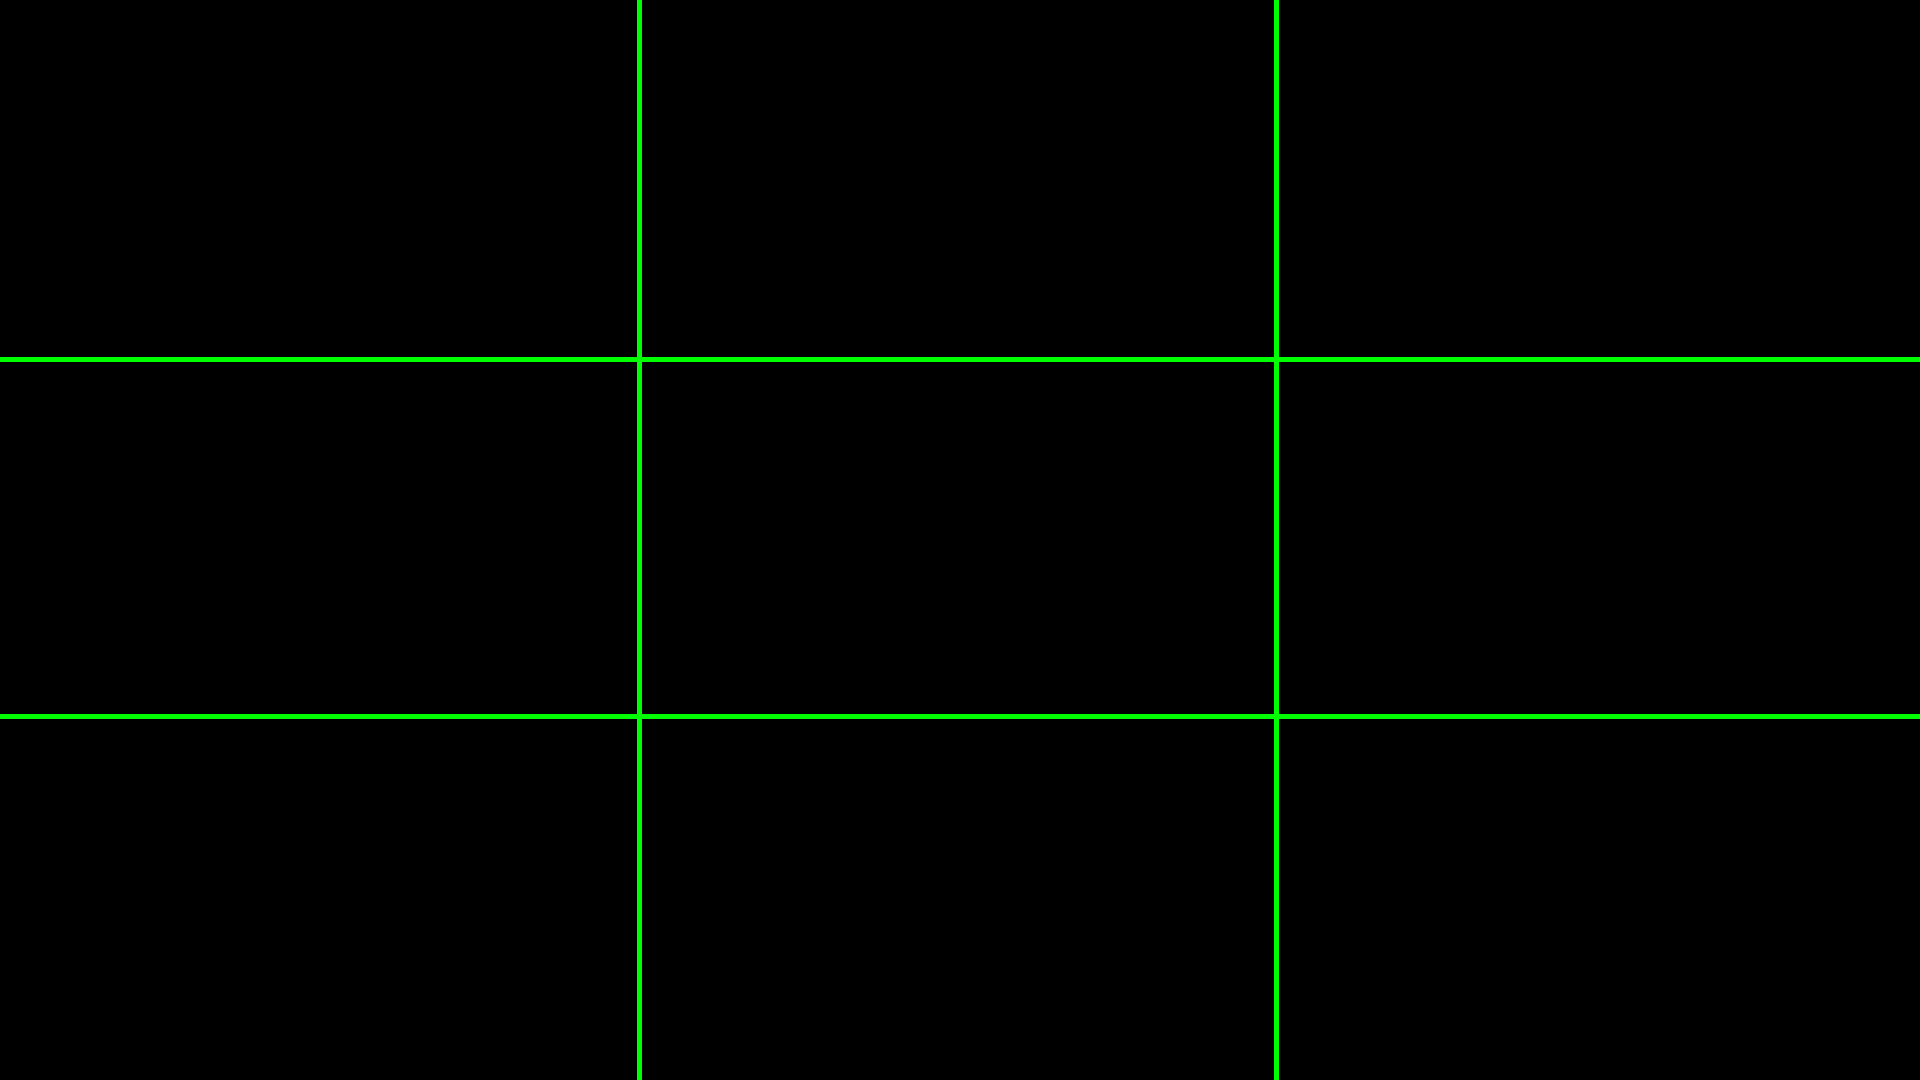
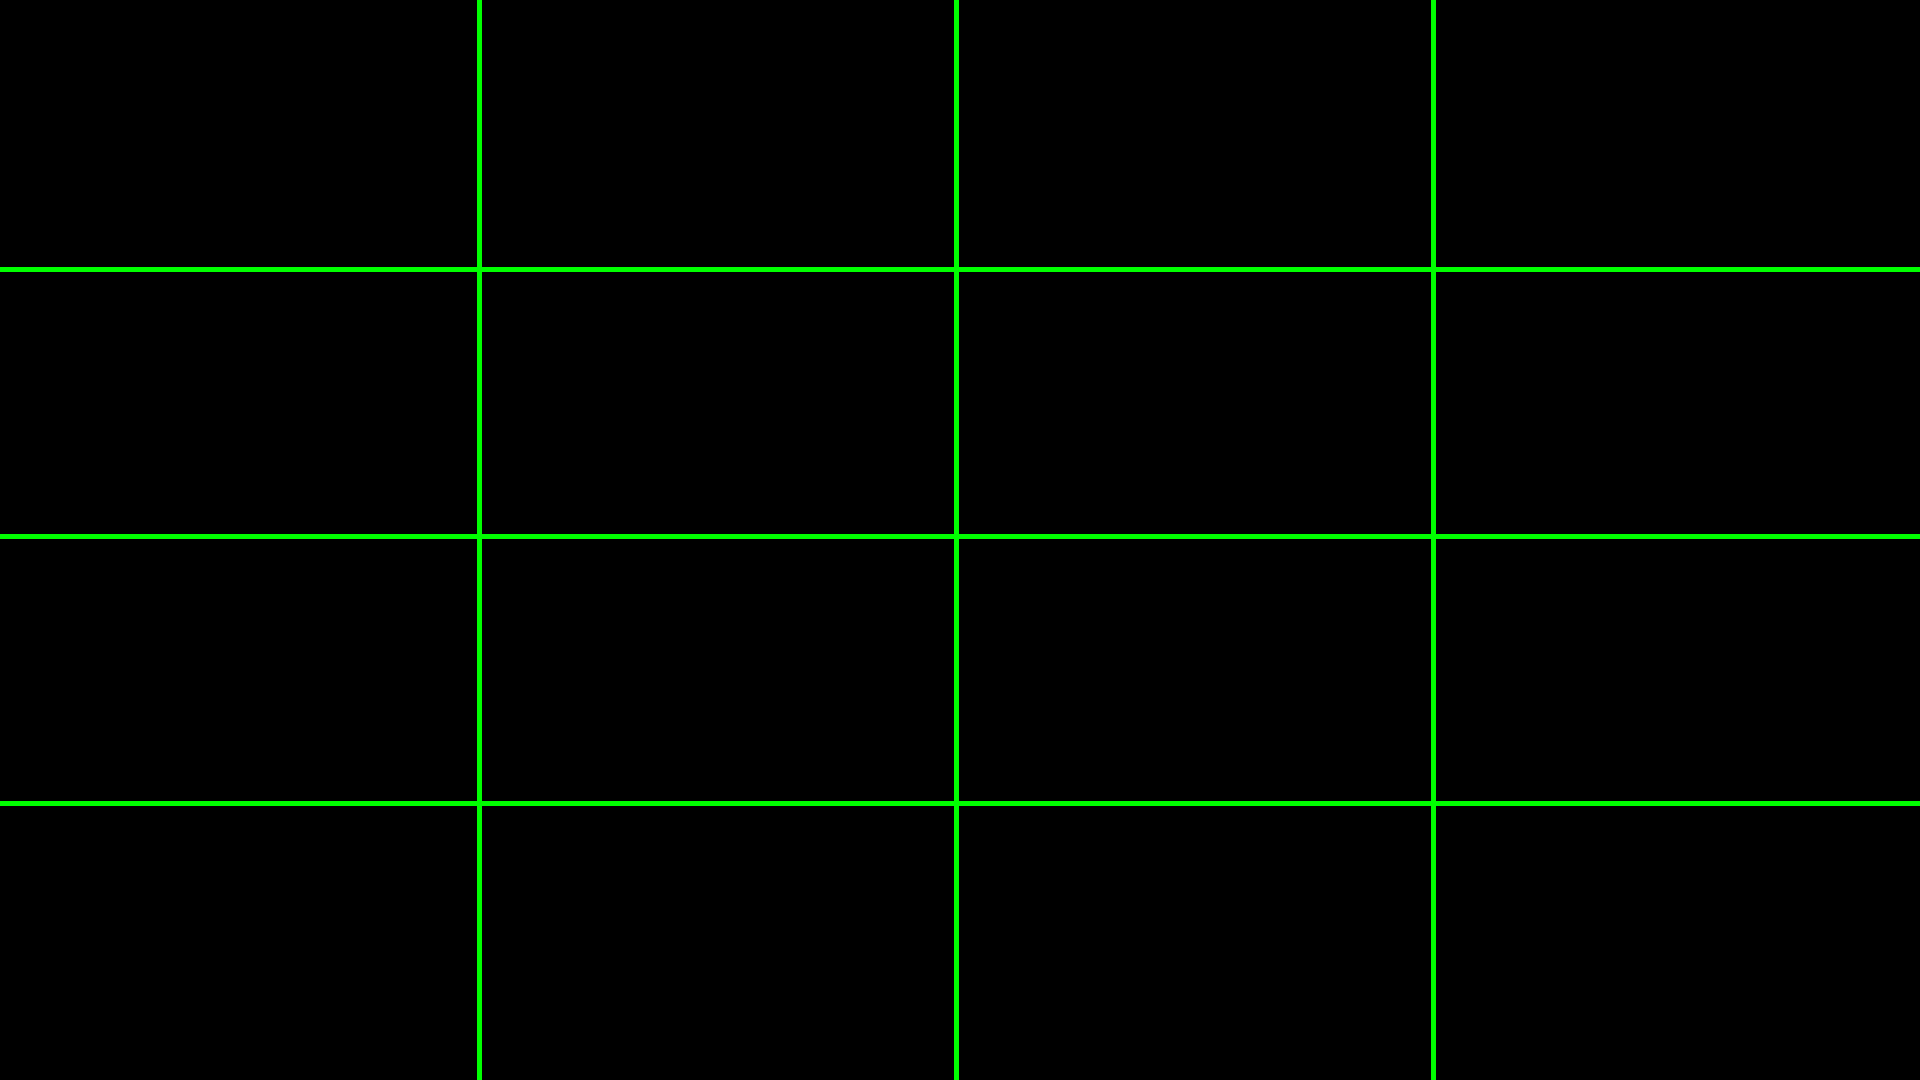
Update: Calibration grid is now display using another thread. Allow us to continue reading the main script.

diff --git a/CLI_AS/calib/calibration_functions.py b/CLI_AS/calib/calibration_functions.py
@@ -1,6 +1,6 @@
 
 import sys
-#import ogl_viewer.viewer as gl
+import ogl_viewer.viewer as gl
 import pyzed.sl as sl
 import numpy as np
 import tifffile
@@ -12,11 +12,11 @@ import skimage.measure
 from PIL import Image
 from PIL import ImageTk
 import json
+import threading
 if sys.version_info[0] == 2:  # the tkinter library changed it's name from Python 2 to 3.
-    import Tkinter 
-    tkinter = Tkinter #I decided to use a library reference to avoid potential naming conflicts with people's programs.
+    import Tkinter as tk
 else:
-    import tkinter
+    import tkinter as tk
 
 ############################################################################################################################################
 ############################################### Function used for 3D-2D matrix estimation ##################################################
@@ -227,32 +227,46 @@ def display_calibration(CALIB_IMG_PATH):
         - CALIB_IMG_PATH: the path of the image displayed, here it is used for the calibration image.
     """
 
-    class Fullscreen_Window:
+    class App(threading.Thread):
 
-        def __init__(self,image_path):
-            self.tk = tkinter.Tk()
-            self.tk.attributes('-zoomed', True)  # This just maximizes it so we can see the window. It's nothing to do with fullscreen.
-            image = Image.open(image_path)
-            self.image = ImageTk.PhotoImage(image=image)
-            self.state = False
-            self.tk.bind("<F11>", self.toggle_fullscreen)
-            self.tk.bind("<Escape>", self.end_fullscreen)
+        def __init__(self):
+            threading.Thread.__init__(self)
+            self.start()
 
+        def callback(self):
+            self.root.quit()
+        
         def toggle_fullscreen(self, event=None):
             self.state = not self.state  # Just toggling the boolean
             self.tk.attributes("-fullscreen", self.state)
-            lmain = tkinter.Label(self.tk)
-            lmain.pack()
-            lmain.configure(image=self.image)
             return "break"
 
         def end_fullscreen(self, event=None):
             self.state = False
             self.tk.attributes("-fullscreen", False)
             return "break"
+        
+        def stop(self,event=None):
+            root = self.tk
+            root.quit()
+            return "break"
+
+        def run(self):
+            self.tk = tk.Tk()
+            self.tk.attributes('-zoomed', True)  # This just maximizes it so we can see the window. It's nothing to do with fullscreen.
+            image = Image.open(CALIB_IMG_PATH)
+            self.image = ImageTk.PhotoImage(image=image)
+            lmain = tk.Label(self.tk)
+            lmain.pack()
+            lmain.configure(image=self.image)
+            self.state = False
+            self.tk.bind("<F11>", self.toggle_fullscreen)
+            self.tk.bind("<Escape>", self.end_fullscreen)
+            self.tk.bind("<q>", self.stop)
+            self.tk.protocol("WM_DELETE_WINDOW", self.callback)
+            self.tk.mainloop()
     
-    w = Fullscreen_Window(CALIB_IMG_PATH)
-    w.tk.mainloop()
+    App()
 
 
 

diff --git a/CLI_AS/calib/calib.py b/CLI_AS/calib/calib.py
@@ -21,7 +21,7 @@ optional arguments:
 
 import sys
 import subprocess
-import _thread
+import threading
 from xmlrpc.client import Boolean
 import json
 import pyzed.sl as sl
@@ -90,16 +90,18 @@ def main(CALIB_Z_THRESHOLD_M,RADIUS_PERI_THRESHOLD_PX,STARTING_POINT,VISUALIZE):
 
     draw_grid(_calib_img_path,_calib_2D_pixel_path,nb_lines_X=_nb_lines_X,nb_lines_Y=_nb_lines_Y)
 
-    print("We will now project the calibration grid, make sure you expend your screen on the projector.\nSo you can see both the terminal on your screen and the calibration image projected on the floor.")
-    print("If you want to exit the full screen mode just press the <ESC> key, but this will close the image.")
-    pause()
+
 
     # displaying the grid
-    thread.start_new_thread ( display_calibration, _calib_img_path )
+    threaded_app = display_calibration(_calib_img_path)
+    # threading.start_new_thread ( display_calibration, _calib_img_path )
     # cmd = f'python {_display_calib_function_path} -i {_calib_img_path}'
-    # p = subprocess.Popen(cmd, shell=True,creationflags=subprocess.CREATE_NEW_CONSOLE)
-    # out, err = p.communicate()
+    # p = subprocess.call(cmd, shell=True)
     
+    print("We will now project the calibration grid, make sure you expend your screen on the projector.\nSo you can see both the terminal on your screen and the calibration image projected on the floor.")
+    print("Use the <F11> key, to toogle fullscreen mode.\nOnce the grid is set up:")
+    pause()
+
     ###########################################################################################################################################
     ### 2.1 Setting ZED params
     ###########################################################################################################################################
